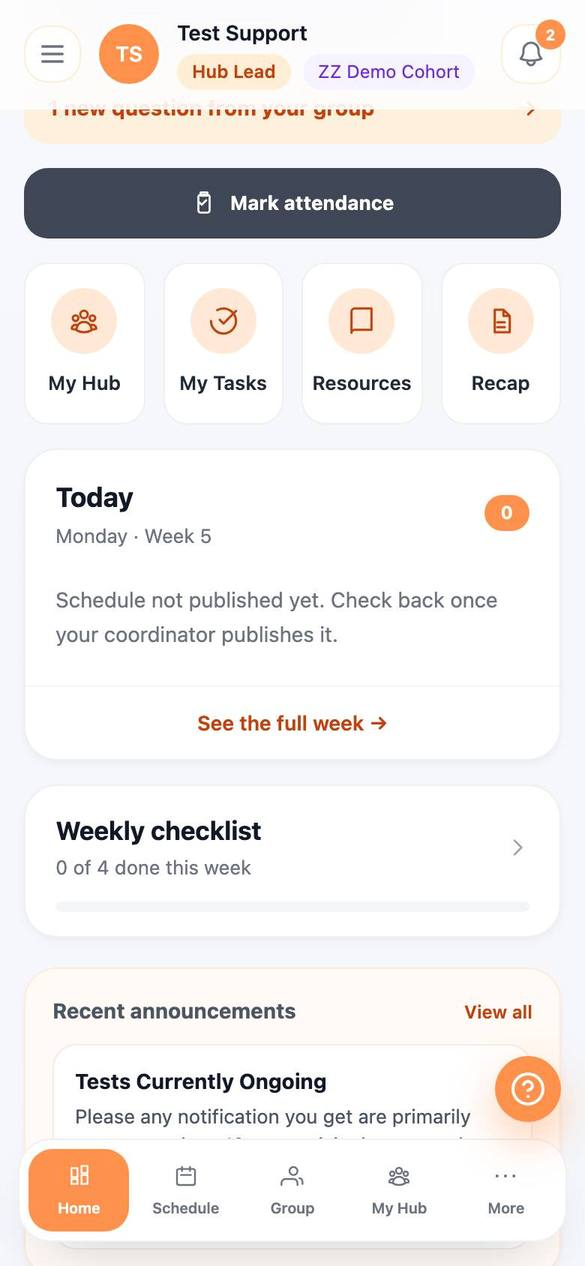
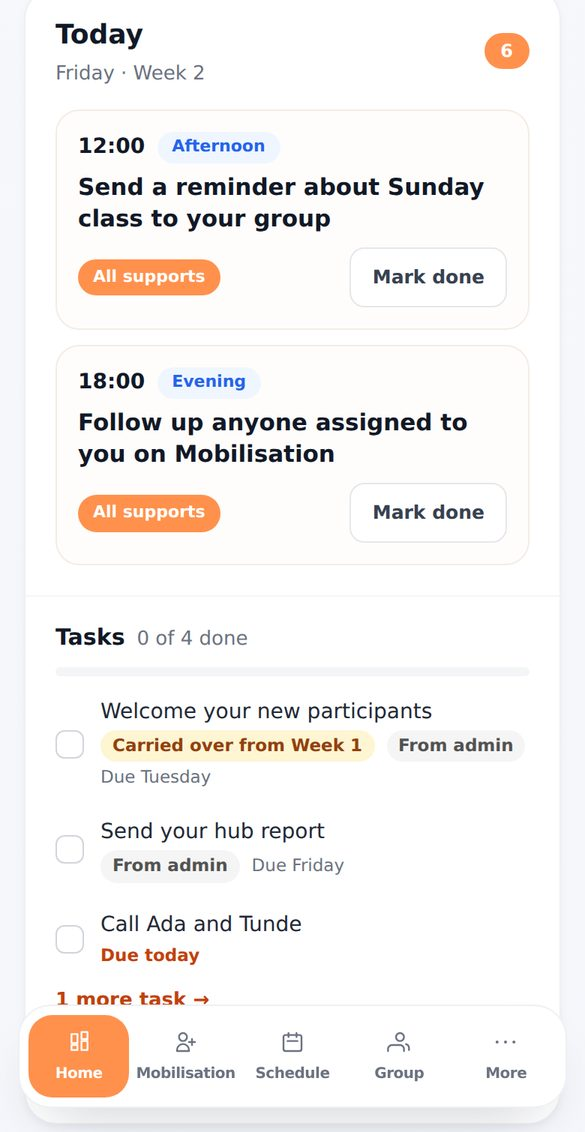
Guides: support and teen support guides for the merged schedule and tasks UI
Flow-Map: n/a guide text and screenshots only, nothing in section 4 applies

Claude-Session: https://claude.ai/code/session_01FB56aDBfeXLVZc2gcA5A6g

diff --git a/frontend/public/guides/app-guide/content.js b/frontend/public/guides/app-guide/content.js
@@ -2400,7 +2400,7 @@ window.GUIDE_CONTENT = {
      "id": "home",
      "title": "Home",
      "where": "Bottom bar → Home",
-     "summary": "Your day at a glance: this week, what's due today, your checklist, your group or hub, and the latest news.",
+     "summary": "Your day at a glance: this week, what's due today (activities and tasks together), your group or hub, and the latest news.",
      "shot": "support-home-with-group.jpg",
      "tasks": [
       {
@@ -2417,7 +2417,7 @@ window.GUIDE_CONTENT = {
         "**Programme progress** shows which week the cohort is on. Tap **Open schedule** to see the whole week.",
         "The small tiles show today's activities, your next group meeting, how many faith projects your group has drafted, and next week's class topic.",
         "Below that are quick buttons such as **Mark attendance**, **My Hub**, **My Tasks**, **Resources** and **Classes**.",
-        "Scroll down for **Today**, your **Weekly checklist** and **Recent announcements**."
+        "Scroll down for the **Today** card, which holds today's activities and your **Tasks** together, then **Recent announcements**."
        ],
        "result": "You can see what needs doing without opening any other page."
       },
@@ -2446,21 +2446,26 @@ window.GUIDE_CONTENT = {
       },
       {
        "id": "s-weekly-checklist",
-       "q": "How do I tick off my weekly checklist?",
+       "q": "How do I tick off my tasks?",
        "keywords": [
         "checklist",
         "duties",
         "tasks",
         "tick",
         "done",
-        "my tasks"
+        "my tasks",
+        "to do"
        ],
        "steps": [
-        "Scroll down Home to **Weekly checklist**, or open **Schedule** and tap the **Checklist** tab.",
-        "Tap an item to tick it off. Tap it again to untick it.",
-        "Tap **Show completed** to see the items you've already done."
+        "On **Home**, find the **Today** card. Your **Tasks** are under today's activities, with a progress bar.",
+        "Tap the box beside a task to tick it off. Tap it again to untick it. Three tasks show; tap **N more tasks** to see the rest.",
+        "For everything, open **Schedule**. Tasks sit on the day they are due, with your activities. Tap **Tasks** at the top to see only tasks.",
+        "Tap **Show completed** to see the ones you have already done."
        ],
-       "result": "The count (for example \"2 of 4 done this week\") goes up as you tick things off. It starts fresh every week.",
+       "result": "The count (for example \"2 of 4 done\") goes up as you tick things off. A task from your admin may ask for an optional note when you tick it.",
+       "tips": [
+        "**Due today** shows in orange and **Was due** in red when a deadline has passed."
+       ],
        "shot": "support-home-checklist.jpg"
       },
       {
@@ -2667,9 +2672,9 @@ window.GUIDE_CONTENT = {
        "steps": [
         "Tap **Schedule** in the bottom bar.",
         "Use the week box to pick a week.",
-        "Use the next box to choose **Today**, **Tomorrow** or the **Full week**."
+        "Choose **All**, **Activities** or **Tasks**, then **Today**, **Tomorrow** or the **Full week**. You can also tap a day in the strip."
        ],
-       "result": "You see every activity with its time. If it says \"Schedule not published yet\", the coordinator hasn't finished that week's plan.",
+       "result": "You see your activities with their times, and your tasks on the day they are due, in one list. If it says \"Schedule not published yet\", the coordinator hasn't finished that week's plan (your tasks still show).",
        "tips": [
         "When an activity is finished, tap **Mark done** on it. You can only do this on the day."
        ]
@@ -2715,21 +2720,79 @@ window.GUIDE_CONTENT = {
       },
       {
        "id": "s-edit-duties",
-       "q": "Can I change my list of weekly duties?",
+       "q": "How do I add my own task, with a deadline?",
        "keywords": [
+        "add task",
+        "new task",
+        "deadline",
+        "remind me",
+        "remove task",
         "edit list",
         "duties",
-        "add duty",
-        "remove duty",
         "checklist"
        ],
        "steps": [
-        "Open **Schedule** and tap the **Checklist** tab.",
-        "Tap **Edit list**.",
-        "Tap **Remove** next to a duty to take it off, or type a new one and tap **Add**."
+        "Open **Schedule** and tap **Add task** at the top right.",
+        "Write what needs doing.",
+        "Choose a deadline: **Today**, **Tomorrow**, **Pick a date…** or **No deadline**.",
+        "Tap **Add task**."
        ],
-       "result": "Your checklist now has the duties you need.",
+       "result": "The task appears on the day it is due. Only you can see it.",
+       "tips": [
+        "To remove one of your own tasks, tap **Edit my tasks**, then **Remove** beside it. Tasks from your admin cannot be removed.",
+        "A task with a date in another week is filed in that week, and a note tells you where."
+       ],
        "shot": "support-schedule-checklist.jpg"
+      },
+      {
+       "id": "s-admin-task",
+       "q": "What does \"From admin\" mean on a task?",
+       "keywords": [
+        "from admin",
+        "admin task",
+        "assigned task",
+        "note"
+       ],
+       "steps": [
+        "A task with the grey **From admin** tag was given to you by an admin.",
+        "Tap the circle to tick it when it is done. You can add an optional note.",
+        "You cannot rename, move or delete it."
+       ],
+       "result": "Your admin sees that it is done, and your note, in their report."
+      },
+      {
+       "id": "s-carried-over",
+       "q": "What does \"Carried over\" mean?",
+       "keywords": [
+        "carried over",
+        "unfinished",
+        "last week",
+        "missed task",
+        "not done"
+       ],
+       "steps": [
+        "Open **Schedule** or look at **Home**.",
+        "A task you did not finish in an earlier week shows under **Carried over**, tagged **Carried over from Week N**.",
+        "Tick it when you have done it."
+       ],
+       "result": "Nothing is lost: unfinished tasks come along into the week that is happening now until you tick them off."
+      },
+      {
+       "id": "s-rest-weeks",
+       "q": "What are the Rest weeks on my Schedule?",
+       "keywords": [
+        "rest weeks",
+        "break",
+        "after the cohort",
+        "follow up",
+        "between cohorts"
+       ],
+       "steps": [
+        "After the last class there are three rest weeks before the next cohort. The week box on **Schedule** then offers **Rest weeks** (the page opens on it once classes are over).",
+        "Your tasks are grouped as **Rest week 1**, **2** and **3**, with the dates.",
+        "Admins can give group leaders follow-up tasks for these weeks. Tick them as you do them, or tap **Add task** for your own."
+       ],
+       "result": "You keep following up on your people, with a deadline, during the break."
       }
      ]
     },
@@ -3343,7 +3406,7 @@ window.GUIDE_CONTENT = {
        ],
        "steps": [
         "Open **More** → **Attendance**, or tap **Mark attendance** on Home.",
-        "Check the week at the top is right.",
+        "Check the week at the top is right. It opens on the class still to come; for the class just held, tap **See Week N, the last class** or use the week box.",
         "Tap **Start attendance** if the register hasn't opened yet.",
         "For each person, tap **Present**, **Absent**, **Late**, **Left early** or **Excused**.",
         "Type in the search box to find someone quickly."

diff --git a/docs/handoffs/2026-10-25_guides-new-schedule-ui.md b/docs/handoffs/2026-10-25_guides-new-schedule-ui.md
@@ -1,0 +1,12 @@
+# Support and Teen Support guides updated for the merged schedule and tasks UI
+
+Date: 2026-10-25. Guide text and pictures only: no migration, no function, no app code.
+
+## What changed
+- **In-app guide** (`public/guides/app-guide/content.js`, support role, which Teen Supports use too): Home overview and Home summary now describe the single Today card (activities and tasks together); `s-weekly-checklist` is "How do I tick off my tasks?"; `s-edit-duties` is "How do I add my own task, with a deadline?"; new entries `s-admin-task` (From admin), `s-carried-over`, `s-rest-weeks`; `s-see-schedule` describes All / Activities / Tasks; `s-mark-attendance` says it opens on the class still to come and names the "See Week N, the last class" button. Pictures `shots/support-home-checklist.jpg` and `shots/support-schedule-checklist.jpg` were retaken from the new UI (mocked data, a made-up support named Kemi Adebayo, Friday 30 Oct 2026).
+- **Support App Guide PDF (v2)**: Schedule page rewritten, a new "Your tasks" page (Home Today card, From admin, Add task, Rest weeks), Attendance tip, cover and weekly rhythm wording; later sections renumbered (now 12). Not in the repo (built in the session scratchpad).
+- **Teen Support Guide PDF (v7)**: a new page "Your schedule and tasks" before "Every week", and the Sunday line mentions the attendance default. Not in the repo.
+
+## Not done
+- No admin guide entry exists for "Add task for supports" (now with Rest weeks and Group leaders). Add one if admins need it.
+- Screenshots are from a mocked browser with made-up data and the sandbox's fonts, not the live app.

diff --git a/docs/handoffs/INDEX.md b/docs/handoffs/INDEX.md
@@ -5,6 +5,7 @@ Older, auto-written summaries are in `.sessions/INDEX.md`.
 
 | Date | Handoff | Covers |
 |---|---|---|
+| 2026-10-25 | [Guides for the new schedule and tasks UI](2026-10-25_guides-new-schedule-ui.md) | In-app support guide entries and pictures updated (tasks, Add task, From admin, Carried over, Rest weeks, attendance default); Support guide PDF v2 and Teen Support guide PDF v7 rebuilt. Guide text only. |
 | 2026-10-24 | [Tasks on Today, Attendance default week](2026-10-24_tasks-today-view-attendance-default.md) | Schedule: tasks with no day (or on other days) were hidden on Today; now shown with a hint. Attendance (support and admin) opens on the class still to come, not the one already held. Frontend only; FLOW_MAP rule 106. |
 | 2026-10-24 | [Reuse an earlier class picture](2026-10-24_reuse-earlier-class-pictures.md) | Week editor: "Use an earlier one" for the class graphic and teacher photos (only that kind, nothing re-uploaded); replaced pictures still used by another class are no longer deleted. Frontend only; FLOW_MAP rule 105. |
 | 2026-10-24 | [Schedule and tasks as one list](2026-10-24_schedule-and-tasks-one-list.md) | Support Schedule shows activities and tasks together (All / Activities / Tasks); supports add their own tasks with a deadline; tasks may have a date instead of a class week, so the 3 rest weeks carry follow-up tasks; admin pop-up gains Rest weeks and Group leaders. 1 live migration; FLOW_MAP rule 104. |
